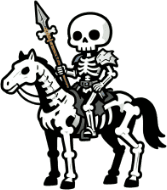
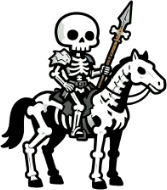
fix(pvp): 白骨岭骑兵方向——AI 镜像半场行进方向翻转修正
根因不是 trailDir/镜像代码，而是白骨岭骑兵立绘朝向与其它三图相反。

- render.ts 的骑兵翻转 `if (isCavalry && trailDir<0)` 约定立绘默认面朝右、
  向左行才翻转。trailDir 两侧都正确：玩家侧取原路径位移、AI 镜像侧取
  aiMonsterPos（=mirrorPath）位移，180° 点对称让两侧 trailDir 互为相反数
  （探针：四图水平段 player 与 ai 符号 0 违规；流沙河两半场均正确可佐证）。
- 但 monster-cavalry-baiguling.png 的马头朝左（火焰山/流沙河/盘丝洞均朝右），
  于是翻转在左右两半场都判反 → 白骨岭骑兵「方向反了」（对手机/本机皆然）。
  任务假设的「镜像侧 trailDir 未镜像」与「白骨岭路径反向」均不成立。

修法：把白骨岭骑兵立绘水平翻转为面朝右，与其余三图及翻转逻辑的约定一致
（pngquant 重压回 8-bit 调色板，9662→9720 字节，体积持平）。两侧方向即正确。
顺带在翻转处补注释点明「立绘须统一朝右」这一隐含约定，避免再生出朝左立绘。

单机影响：原单机白骨岭两半场骑兵同样反向，现一并改正；其余三图与逻辑未动，不受影响。
部署：立绘走 CDN 内容哈希（manifest-generated.ts），需 `node tools/tos-upload.mjs`
 上传翻转后的 PNG 并重算 manifest 后对全用户生效（本地无 TOS 凭证，故 manifest
 暂保持旧 hash——running app 仍加载 CDN 旧图，上传后自动击穿缓存）。

diff --git a/web/src/render.ts b/web/src/render.ts
@@ -2254,7 +2254,10 @@ function drawMonsterAt(
     const scale = Math.min(box / spr.width, box / spr.height);
     const dw = spr.width * scale;
     const dh = spr.height * scale;
-    // 骑兵有明确行进方向：朝左走(trailDir<0)时水平翻转立绘，使其面朝移动方向。
+    // 骑兵立绘约定：默认面朝右。trailDir 由实际屏幕位移得出（玩家侧取原路径、AI 镜像侧取
+    // aiMonsterPos 镜像位移，两侧均正确），故只需在向左行(trailDir<0)时水平翻转折面。
+    // ⚠ 各图骑兵立绘(monster-cavalry-<mapId>)必须统一面朝右：若某张朝左，本翻转会让它在
+    // 左右两半场都反向（白骨岭曾因此「方向反了」——修法是校正该立绘朝向，而非改此处逻辑）。
     // 仅翻转骑兵本体（speed 拖尾在上方已按 trailDir 单独画，不受影响）。
     if (m.isCavalry && trailDir < 0) {
       ctx.save();
